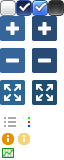
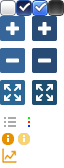
Cambiado icono

diff --git a/base/src/layer_stats_button.css b/base/src/layer_stats_button.css
@@ -1,5 +1,5 @@
 .layer_stats_button {
-    background: url("images/ui-elements.png") no-repeat scroll 0 -148px rgba(0, 0, 0, 0);
-    width: 19px;
-    height: 13px;
+    background: url(images/ui-elements.png) no-repeat scroll 0 -148px rgba(0, 0, 0, 0);
+    width: 25px;
+    height: 16px;
 }
